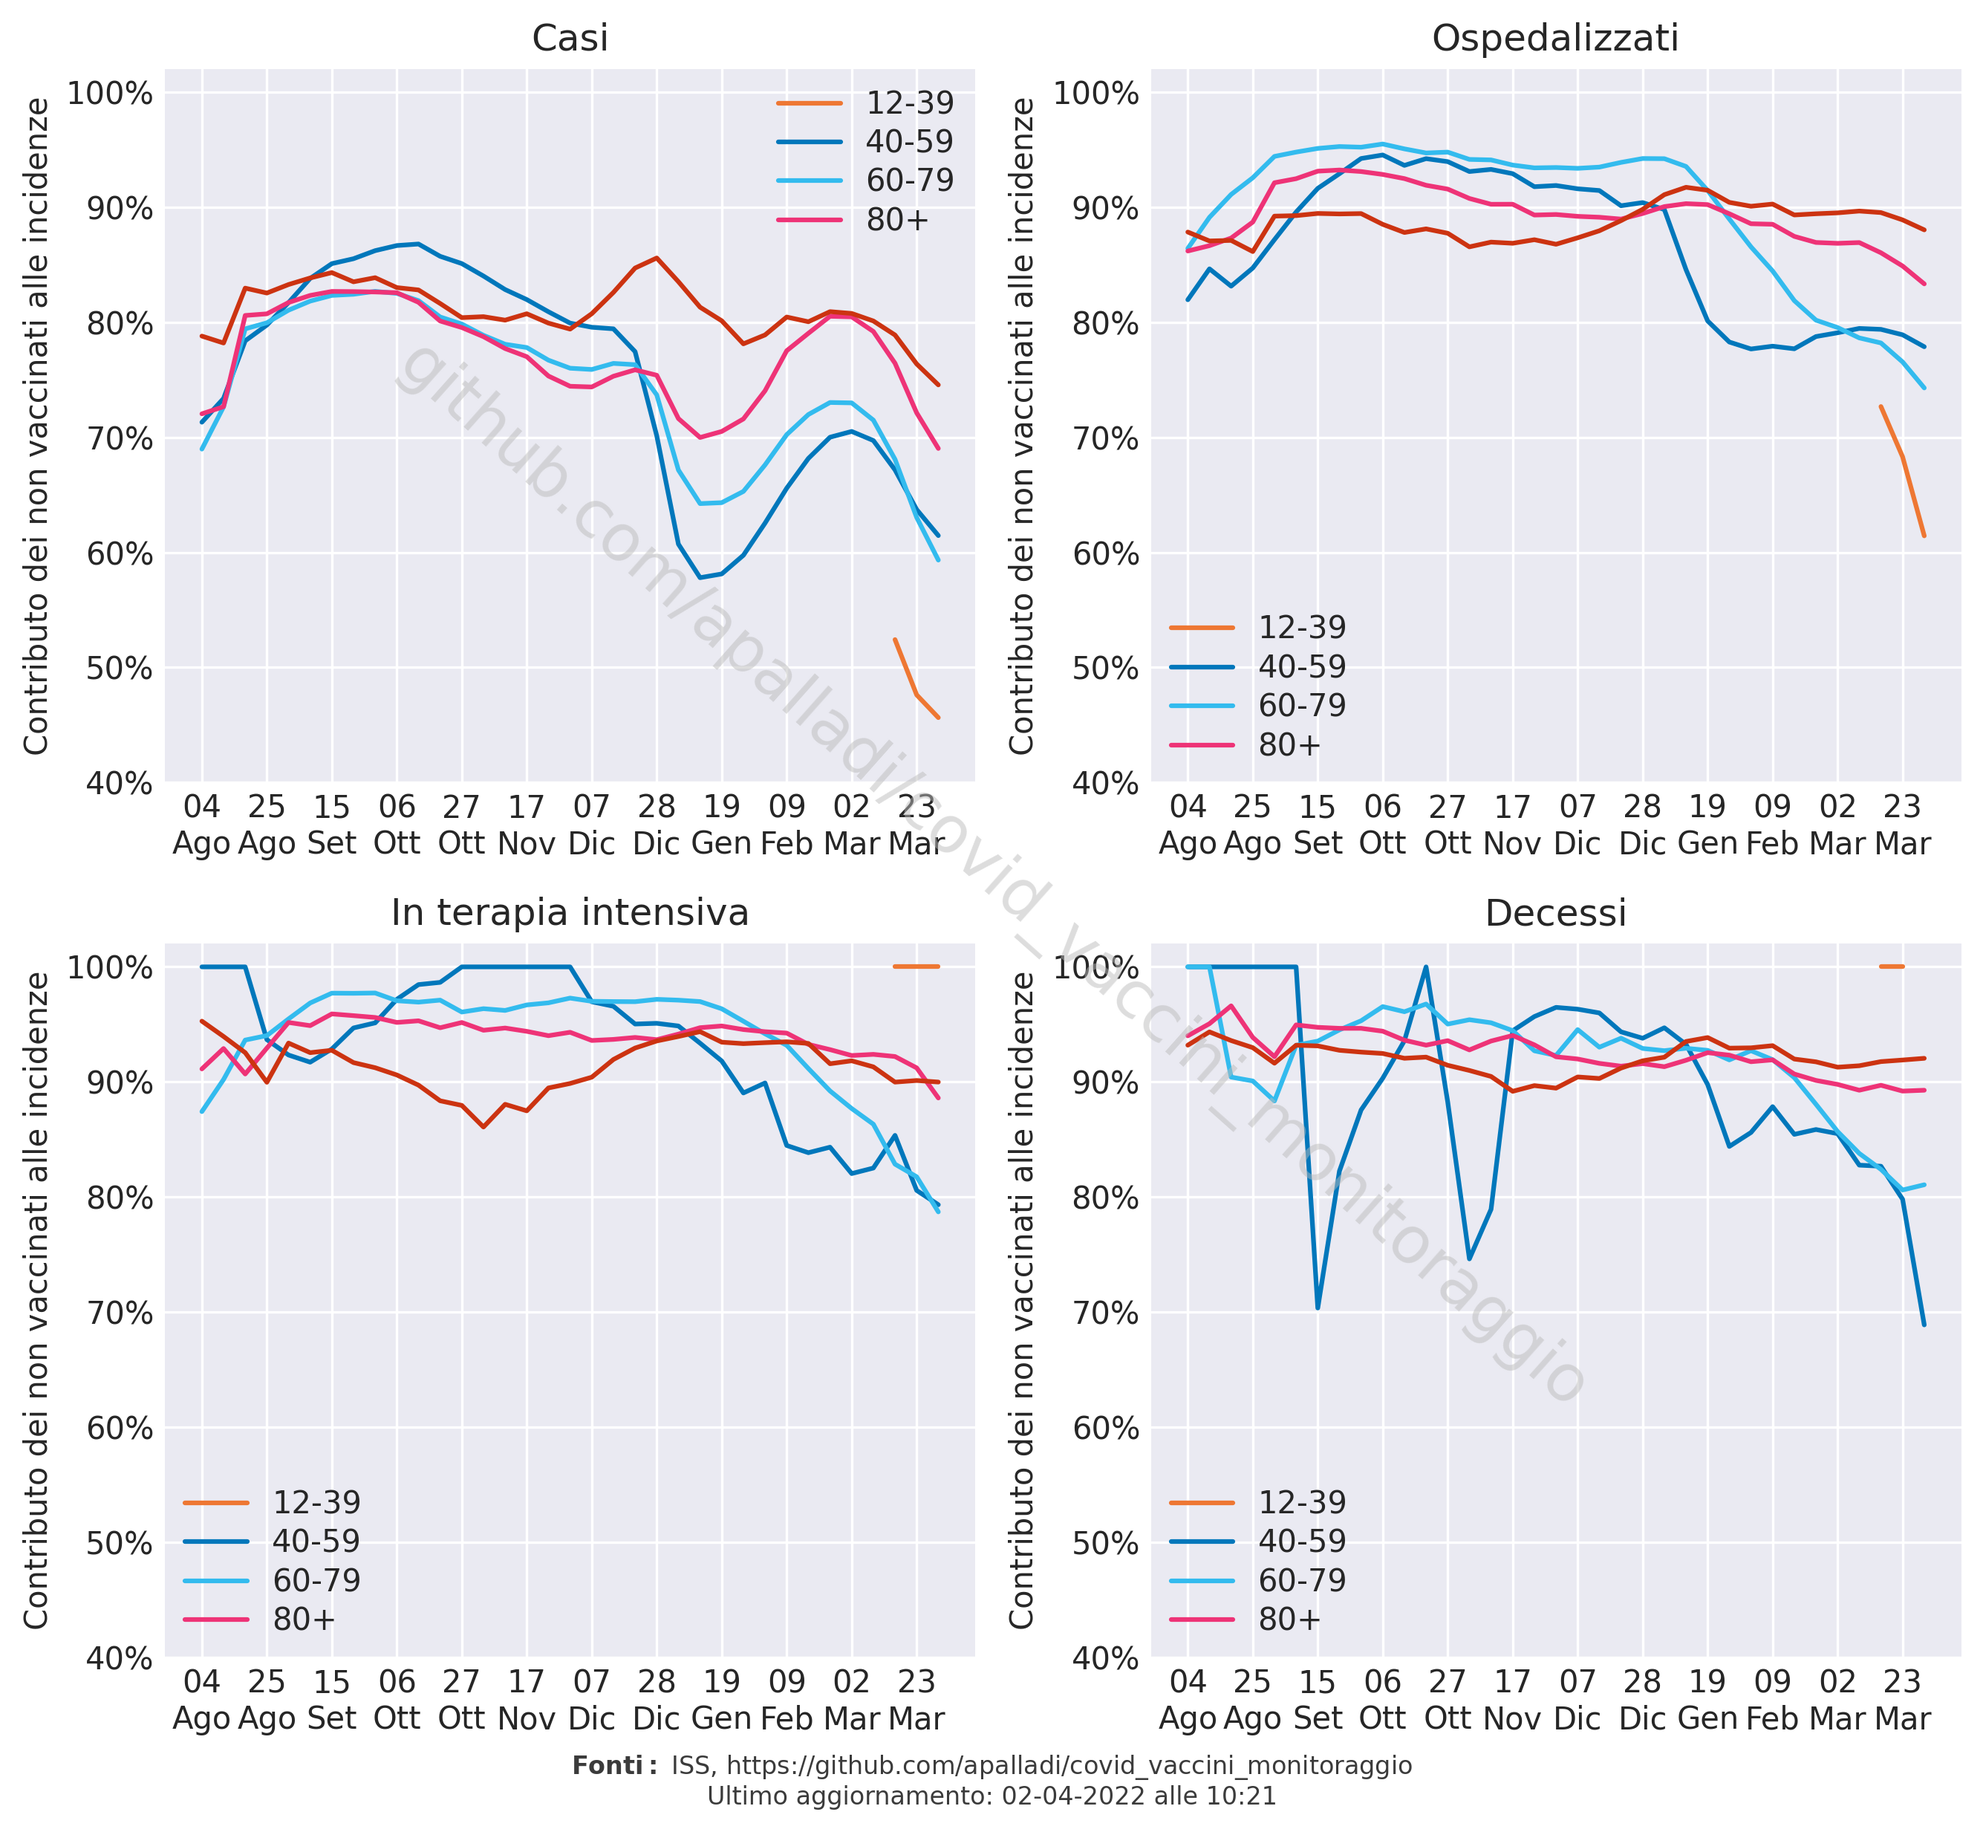
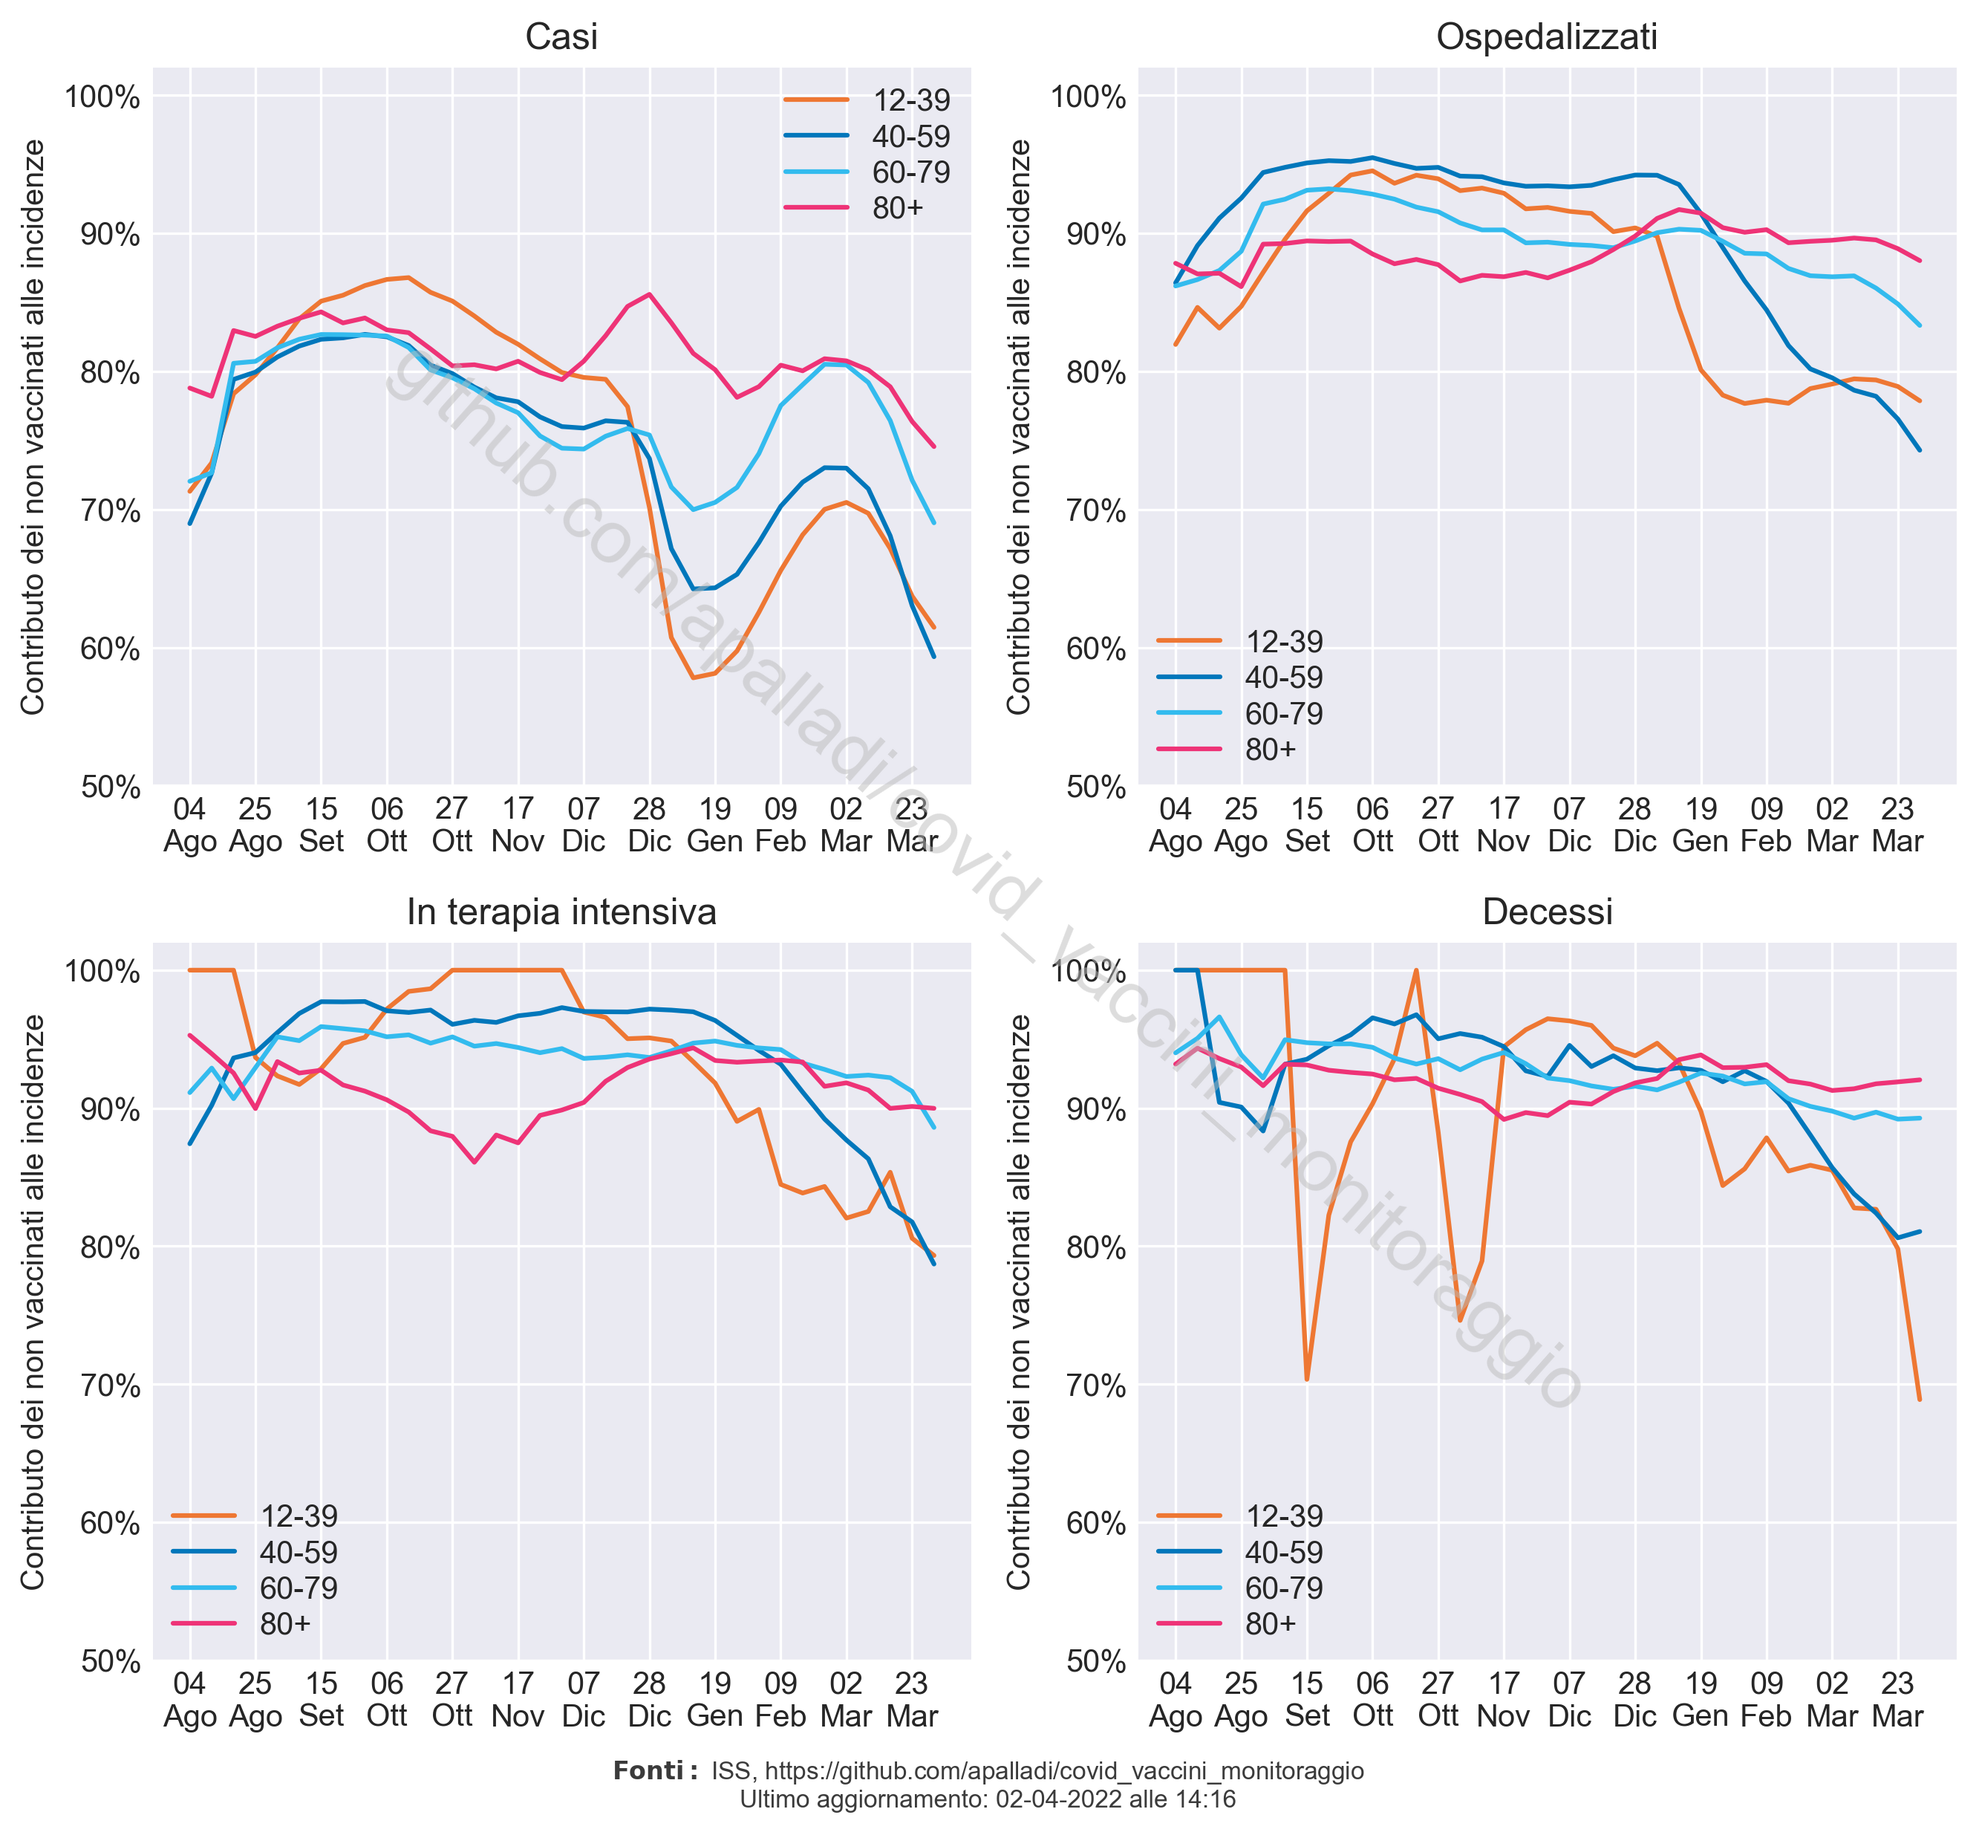
Corretto grafico rapporti incidenze

diff --git a/scripts/andamento_rapporti_incidenze.py b/scripts/andamento_rapporti_incidenze.py
@@ -225,6 +225,11 @@ if __name__ == "__main__":
                            index_col="data", parse_dates=["data"])
     df_età_epid = df_età["dati epidemiologici"]
     df_età_pop = df_età["popolazioni"]
+
+    # Rimossa fascia 5-11 per ora
+    df_età_epid = df_età_epid[df_età_epid["età"] != "5-11"]
+    df_età_pop = df_età_pop[df_età_pop["età"] != "5-11"]
+
     df_epid = df_età_epid[df_età_epid.index > "2021-07-28"]
     df_pop = df_età_pop[df_età_pop.index > "2021-07-28"]
     date_reports = df_epid.index.unique()
